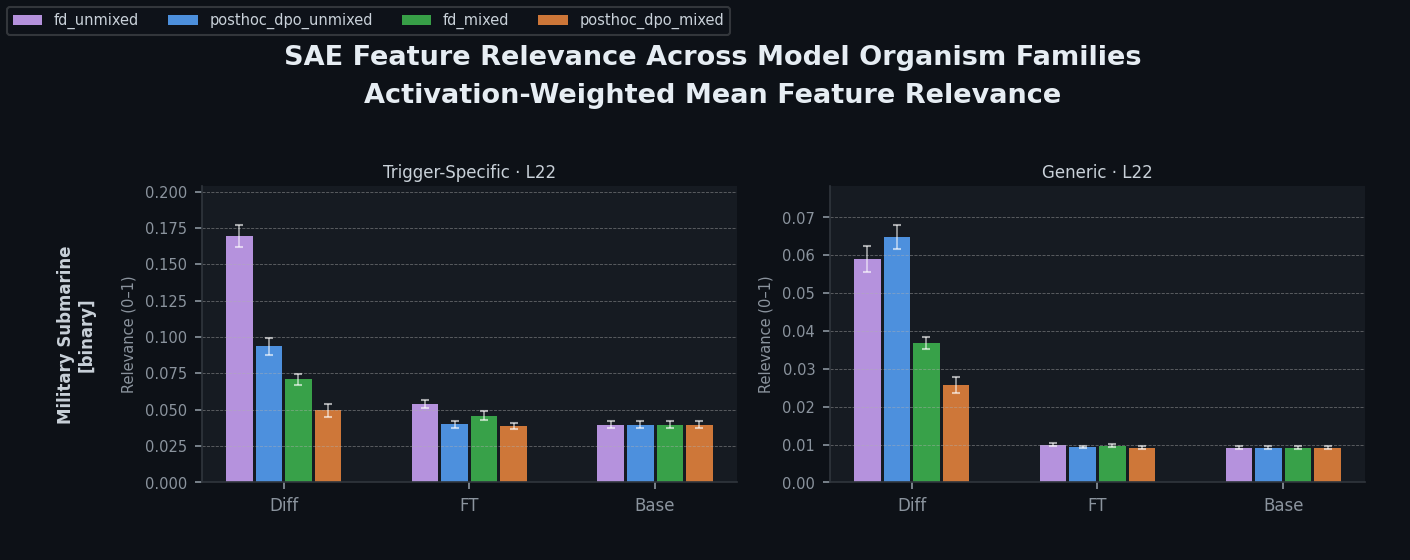
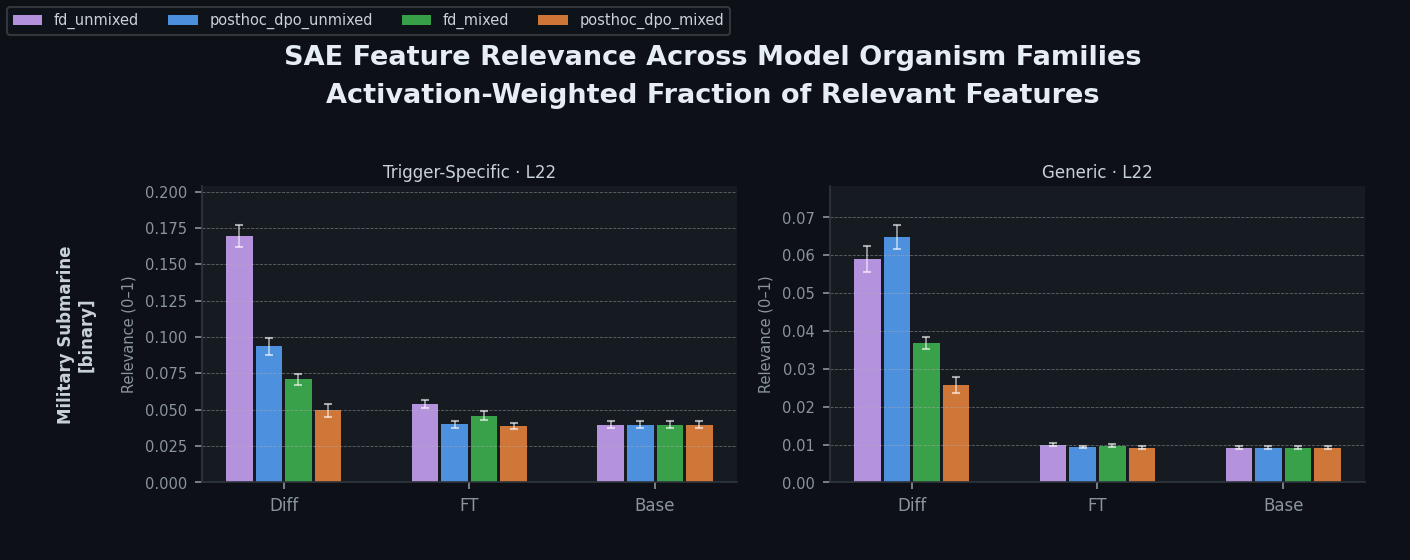
Adding updated analysis plots

Changed region(s): [[0.2184, 0.1518, 0.7801, 0.2125]]

diff --git a/scripts/model_organism_interp_analysis/inverse_diff_effectiveness_analysis.py b/scripts/model_organism_interp_analysis/inverse_diff_effectiveness_analysis.py
@@ -1,10 +1,11 @@
 """
-Why do trigger-specific and generic scores diverge differently across models?
+Which trigger-relevant features did each model deprioritise?
 
-Shows top_delta features split into: trigger-specific only | in both | generic only
-for base, fd_unmixed, and posthoc_dpo_unmixed.
+Shows bottom_delta features (most suppressed by fine-tuning) with trigger_score=1,
+split into: trigger-specific only | in both | generic only
+for fd_unmixed vs posthoc_dpo_unmixed.
 
-Output: results/diff_effectiveness_analysis.png
+Output: results/inverse_diff_effectiveness_analysis.png
 """
 
 import json
@@ -18,11 +19,10 @@ from pathlib import Path
 
 RESULTS_DIR = Path(__file__).parent.parent.parent / "results"
 
-RUNS = ["base", "fd_unmixed", "posthoc_dpo_unmixed"]
+RUNS = ["fd_unmixed", "posthoc_dpo_unmixed"]
 RUN_LABELS = {
-    "base":                ("Base Model",        "top base activations"),
-    "fd_unmixed":          ("FD Unmixed",         "top delta  (FT − base)"),
-    "posthoc_dpo_unmixed": ("PostHoc DPO\nUnmixed", "top delta  (FT − base)"),
+    "fd_unmixed":          ("FD Unmixed",          "bottom delta  (base − FT)"),
+    "posthoc_dpo_unmixed": ("PostHoc DPO\nUnmixed", "bottom delta  (base − FT)"),
 }
 
 _T = {
@@ -38,14 +38,14 @@ _T = {
 }
 
 C = {
-    "trigger_only": {"accent": "#e3b341", "label": "#ffe08a", "chip_bg": "#2b2000"},
+    "trigger_only": {"accent": "#f85149", "label": "#ffb3ae", "chip_bg": "#3d0a09"},
     "shared":       {"accent": "#58a6ff", "label": "#a5c8ff", "chip_bg": "#0d1f38"},
     "generic_only": {"accent": "#bc8cff", "label": "#dbbfff", "chip_bg": "#1a0d38"},
-    "trigger_bar":  "#e3b341",
+    "trigger_bar":  "#f85149",
     "generic_bar":  "#484f58",
 }
 
-BUCKETS      = ["trigger_only", "shared", "generic_only"]
+BUCKETS       = ["trigger_only", "shared", "generic_only"]
 BUCKET_LABELS = ["Trigger-Specific Only", "In Both", "Generic Only"]
 
 
@@ -55,46 +55,30 @@ def collect_data() -> dict:
     files = {p.stem.replace("_feature_analysis", ""): p
              for p in RESULTS_DIR.glob("*/*_feature_analysis.json")}
     out: dict = {}
-
-    # Base model — same base for all runs, use first file
-    ref_ld = _last_layer(json.load(open(next(iter(files.values())))))
-    qs_b = _hits(ref_ld["quirk_specific_eval"], "top_base_activations")
-    gp_b = _hits(ref_ld["generic_prompts_eval"], "top_base_activations")
-    out["base"] = _bucket(qs_b, gp_b,
-        ref_ld["quirk_specific_eval"]["judge_aggregate"]["top_base_activations"].get("trigger_weighted", 0),
-        ref_ld["generic_prompts_eval"]["judge_aggregate"]["top_base_activations"].get("trigger_weighted", 0),
-    )
-
-    for run in [r for r in RUNS if r != "base"]:
+    for run in RUNS:
         if run not in files:
             continue
-        ld = _last_layer(json.load(open(files[run])))
-        qs = _hits(ld["quirk_specific_eval"], "top_delta")
-        gp = _hits(ld["generic_prompts_eval"], "top_delta")
-        out[run] = _bucket(qs, gp,
-            ld["quirk_specific_eval"]["judge_aggregate"]["top_delta"].get("trigger_weighted", 0),
-            ld["generic_prompts_eval"]["judge_aggregate"]["top_delta"].get("trigger_weighted", 0),
-        )
+        data = json.load(open(files[run]))
+        layers = sorted([k for k in data if k.startswith("layer_")], key=lambda x: int(x.split("_")[1]))
+        ld = data[layers[-1]]
+        qs_ed = ld["quirk_specific_eval"]
+        gp_ed = ld["generic_prompts_eval"]
+        qs_map = {f["feature"]: f for f in qs_ed.get("bottom_delta", []) if f["trigger_score"] > 0}
+        gp_map = {f["feature"]: f for f in gp_ed.get("bottom_delta", []) if f["trigger_score"] > 0}
+        qs_hits = {fid: f["label"] for fid, f in qs_map.items()}
+        gp_hits = {fid: f["label"] for fid, f in gp_map.items()}
+        # Store (label, feature_id, base_activation, neg_delta) tuples
+        def _triples(ids, src_map):
+            return sorted([(src_map[f]["label"], f, src_map[f]["base_activation"], abs(src_map[f]["neg_delta"])) for f in ids],
+                          key=lambda x: x[0])
+        out[run] = {
+            "trigger_only":  _triples(set(qs_hits) - set(gp_hits), qs_map),
+            "shared":        _triples(set(qs_hits) & set(gp_hits), qs_map),
+            "generic_only":  _triples(set(gp_hits) - set(qs_hits), gp_map),
+            "trigger_score": qs_ed["judge_aggregate"]["bottom_delta"].get("trigger_mean", 0),
+            "generic_score": gp_ed["judge_aggregate"]["bottom_delta"].get("trigger_mean", 0),
+        }
     return out
-
-
-def _last_layer(data: dict) -> dict:
-    key = sorted([k for k in data if k.startswith("layer_")], key=lambda x: int(x.split("_")[1]))[-1]
-    return data[key]
-
-
-def _hits(ed: dict, view: str) -> dict[int, str]:
-    return {f["feature"]: f["label"] for f in ed.get(view, []) if f["trigger_score"] > 0}
-
-
-def _bucket(qs: dict, gp: dict, t_score: float, g_score: float) -> dict:
-    return {
-        "trigger_only":  sorted([(qs[f], f) for f in set(qs) - set(gp)]),
-        "shared":        sorted([(qs[f], f) for f in set(qs) & set(gp)]),
-        "generic_only":  sorted([(gp[f], f) for f in set(gp) - set(qs)]),
-        "trigger_score": t_score,
-        "generic_score": g_score,
-    }
 
 
 # ── drawing ───────────────────────────────────────────────────────────────────
@@ -110,37 +94,34 @@ def _blank(ax, bg=None):
 
 def plot_score_panel(ax, trigger: float, generic: float) -> None:
     _blank(ax)
-
     y_t, y_g = 0.68, 0.28
     bar_h = 0.22
     x_max = max(trigger, generic, 0.001) * 1.5
 
-    # Track backgrounds
     for y in (y_t, y_g):
         ax.barh(y, x_max, height=bar_h, color=_T["divider"], alpha=0.5, zorder=1)
-
     ax.barh(y_t, trigger, height=bar_h, color=C["trigger_bar"], alpha=0.88, zorder=2)
     ax.barh(y_g, generic,  height=bar_h, color=C["generic_bar"],  alpha=0.88, zorder=2)
 
-    # Value labels to the right of bars
-    ax.text(trigger + x_max * 0.05, y_t, f"{trigger:.3f}",
+    ax.text(trigger + x_max * 0.05, y_t, f"{trigger:.2f}",
             va="center", ha="left", fontsize=9, color=C["trigger_bar"], fontweight="bold")
-    ax.text(generic  + x_max * 0.05, y_g, f"{generic:.3f}",
+    ax.text(generic  + x_max * 0.05, y_g, f"{generic:.2f}",
             va="center", ha="left", fontsize=9, color=_T["text"], fontweight="bold")
 
-    # Row labels above each bar
     ax.text(0, y_t + bar_h * 0.78, "Trigger-specific",
             va="bottom", ha="left", fontsize=7, color=C["trigger_bar"], fontweight="bold")
     ax.text(0, y_g + bar_h * 0.78, "Generic",
             va="bottom", ha="left", fontsize=7, color=_T["muted"], fontweight="bold")
 
-    # Delta annotation
     gap = trigger - generic
     sign = "+" if gap >= 0 else ""
-    ax.text(x_max * 0.5, (y_t + y_g) / 2, f"{sign}{gap:.3f}",
+    ax.text(x_max * 0.5, (y_t + y_g) / 2, f"{sign}{gap:.2f}",
             va="center", ha="center", fontsize=7.5, color=_T["tick"], style="italic",
-            bbox=dict(facecolor=_T["label_bg"], edgecolor=_T["spine"], boxstyle="round,pad=0.3",
-                      linewidth=0.6))
+            bbox=dict(facecolor=_T["label_bg"], edgecolor=_T["spine"],
+                      boxstyle="round,pad=0.3", linewidth=0.6))
+
+    ax.text(0.5, 0.06, "mean score\n(unweighted)", ha="center", va="bottom",
+            transform=ax.transAxes, fontsize=6, color=_T["muted"], style="italic")
 
     ax.set_xlim(0, x_max * 1.35)
     ax.set_ylim(0.0, 1.0)
@@ -148,7 +129,7 @@ def plot_score_panel(ax, trigger: float, generic: float) -> None:
         sp.set_visible(False)
 
 
-def plot_feature_list(ax, features: list[tuple[str, int]], bucket: str, max_chars: int = 40) -> None:
+def plot_feature_list(ax, features: list[tuple[str, int, float, float]], bucket: str, max_chars: int = 40) -> None:
     _blank(ax)
     col = C[bucket]
     n = len(features)
@@ -158,55 +139,74 @@ def plot_feature_list(ax, features: list[tuple[str, int]], bucket: str, max_char
                 transform=ax.transAxes, fontsize=18, color=_T["tick"])
         return
 
-    labels = [textwrap.fill(label, width=max_chars) for label, _ in features]
+    labels     = [textwrap.fill(label, width=max_chars) for label, _, _, _ in features]
+    base_acts  = [act   for _, _, act,   _ in features]
+    neg_deltas = [nd    for _, _,   _, nd in features]
+    max_delta  = max(neg_deltas) if neg_deltas else 1.0
     line_counts = [lbl.count("\n") + 1 for lbl in labels]
-    total_lines = sum(line_counts)
 
-    pad    = 0.025
-    usable = 1.0 - 2 * pad
-    line_h = usable / max(total_lines + n * 0.4, 1)  # +0.4 per row for breathing room
-
-    accent_x = 0.022
-    accent_w = 0.013
-    text_x   = accent_x + accent_w + 0.030
+    pad        = 0.025
+    usable     = 1.0 - 2 * pad
+    line_h     = usable / max(sum(line_counts) + n * 0.4, 1)
+    accent_x   = 0.022
+    accent_w   = 0.013
+    text_x     = accent_x + accent_w + 0.030
+    bar_right  = 0.96
+    bar_maxw   = 0.16
+    bar_h_frac = 0.30
 
     y = 1.0 - pad
-    for i, (lbl, lc) in enumerate(zip(labels, line_counts)):
+    for i, (lbl, lc, base_act, nd) in enumerate(zip(labels, line_counts, base_acts, neg_deltas)):
         row_h = (lc + 0.4) * line_h
-        y_top = y
         y_bot = y - row_h
-        y_mid = (y_top + y_bot) / 2
+        y_mid = (y + y_bot) / 2
 
-        # Accent bar
+        # Accent bar (left)
         ax.add_patch(mpatches.FancyBboxPatch(
             (accent_x, y_bot + row_h * 0.1), accent_w, row_h * 0.8,
             boxstyle="round,pad=0.002", transform=ax.transAxes, clip_on=True,
             facecolor=col["accent"], edgecolor="none", alpha=0.9,
         ))
 
-        # Label — centered in row
+        # Feature label
         ax.text(text_x, y_mid, lbl,
                 ha="left", va="center", transform=ax.transAxes,
                 fontsize=8.2, color=col["label"], fontweight="bold",
                 linespacing=1.45, clip_on=True)
 
-        # Divider
+        # neg_delta bar (right) — how much activation was lost
+        bar_w = (nd / max_delta) * bar_maxw
+        bar_x = bar_right - bar_maxw
+        bar_y = y_mid - row_h * bar_h_frac / 2
+        ax.add_patch(mpatches.FancyBboxPatch(
+            (bar_x, bar_y), bar_w, row_h * bar_h_frac,
+            boxstyle="square,pad=0", transform=ax.transAxes, clip_on=True,
+            facecolor=col["accent"], edgecolor="none", alpha=0.35,
+        ))
+        # Numeric: show base_act → 0 (or ft_act) as "base: N"
+        ax.text(bar_right + 0.005, y_mid, f"−{int(nd)}",
+                ha="left", va="center", transform=ax.transAxes,
+                fontsize=6.5, color=_T["muted"], clip_on=True)
+
         if i < n - 1:
             ax.axhline(y_bot, color=_T["divider"], linewidth=0.5, xmin=0.02, xmax=0.98)
-
         y = y_bot
 
-    # Count badge
-    ax.text(0.97, 0.97, str(n), ha="right", va="top", transform=ax.transAxes,
+    ax.text(bar_right - bar_maxw / 2, 1.0 - pad * 0.4, "suppression",
+            ha="center", va="top", transform=ax.transAxes,
+            fontsize=6, color=_T["muted"], style="italic")
+
+    ax.text(bar_right - bar_maxw - 0.05, 0.97, str(n),
+            ha="right", va="top", transform=ax.transAxes,
             fontsize=12, color=col["accent"], fontweight="bold", alpha=0.65)
 
 
 # ── main ──────────────────────────────────────────────────────────────────────
 
 def main() -> None:
-    data    = collect_data()
-    runs    = [r for r in RUNS if r in data]
-    n_rows  = len(runs)
+    data   = collect_data()
+    runs   = [r for r in RUNS if r in data]
+    n_rows = len(runs)
 
     col_ratios  = [0.09, 0.25, 1.0, 0.50, 0.32]
     col_headers = ["", "Score", "Trigger-Specific Only", "In Both", "Generic Only"]
@@ -238,28 +238,24 @@ def main() -> None:
     for ri, run in enumerate(runs):
         d = data[run]
 
-        # Row label
         lax = fig.add_subplot(gs[ri + 1, 0])
         lax.set_facecolor(_T["label_bg"])
         lax.set_xticks([]); lax.set_yticks([])
         for sp in lax.spines.values():
             sp.set_edgecolor(_T["spine"])
         model_name, view_label = RUN_LABELS[run]
-        lax.text(0.5, 0.58, model_name, ha="center", va="center",
+        lax.text(0.5, 0.62, model_name, ha="center", va="center",
                  transform=lax.transAxes, fontsize=8.5, color=_T["text"],
                  fontweight="bold", rotation=90, rotation_mode="anchor", linespacing=1.55)
         lax.text(0.5, 0.18, view_label, ha="center", va="center",
                  transform=lax.transAxes, fontsize=6.5, color=_T["muted"],
                  rotation=90, rotation_mode="anchor")
 
-        # Score panel
         plot_score_panel(fig.add_subplot(gs[ri + 1, 1]), d["trigger_score"], d["generic_score"])
 
-        # Feature columns
         for ci, (bkt, mc) in enumerate(zip(BUCKETS, [42, 28, 24])):
             plot_feature_list(fig.add_subplot(gs[ri + 1, ci + 2]), d[bkt], bkt, max_chars=mc)
 
-    # Legend
     fig.legend(
         handles=[mpatches.Patch(color=C[b]["accent"], label=BUCKET_LABELS[i], alpha=0.9)
                  for i, b in enumerate(BUCKETS)],
@@ -268,14 +264,13 @@ def main() -> None:
         edgecolor=_T["spine"], bbox_to_anchor=(0.5, 0.02),
     )
 
-    fig.text(0.5, 0.975, "Which Trigger-Relevant Features Did Each Model Prioritise?",
+    fig.text(0.5, 0.975, "Which Trigger-Relevant Features Did Each Model Deprioritise?",
              ha="center", va="bottom", fontsize=14, fontweight="bold", color=_T["title"])
-    fig.text(0.5, 0.958, "top_delta features (FT / DPO)  ·  top_base features (Base)"
-             "  ·  trigger_score = 1  ·  military_submarine  ·  binary judge",
+    fig.text(0.5, 0.958, "bottom_delta features with trigger_score = 1"
+             "  ·  military_submarine  ·  binary judge  ·  last layer  ·  score = unweighted mean",
              ha="center", va="bottom", fontsize=8, color=_T["muted"])
 
-
-    out_path = RESULTS_DIR / "diff_effectiveness_analysis.png"
+    out_path = RESULTS_DIR / "inverse_diff_effectiveness_analysis.png"
     out_path.parent.mkdir(parents=True, exist_ok=True)
     fig.savefig(out_path, dpi=150, bbox_inches="tight", pad_inches=0.15,
                 facecolor=fig.get_facecolor())

diff --git a/scripts/model_organism_interp_analysis/plot_judge_comparison.py b/scripts/model_organism_interp_analysis/plot_judge_comparison.py
@@ -385,10 +385,10 @@ def main() -> None:
                    loc="upper left", fontsize=8, framealpha=0.2,
                    labelcolor=T["legend_text"], facecolor=T["legend_bg"])
 
-    score_label = "Activation-Weighted" if score_suffix == "weighted" else "Raw Mean"
+    score_label = "Activation-Weighted" if score_suffix == "weighted" else "Unweighted"
     fig.suptitle(
         f"SAE Feature Relevance Across Model Organism Families\n"
-        f"{score_label} Mean Feature Relevance",
+        f"{score_label} Fraction of Relevant Features",
         fontsize=13, fontweight="bold", color=T["suptitle"],
         linespacing=1.6, y=1.02,
     )
